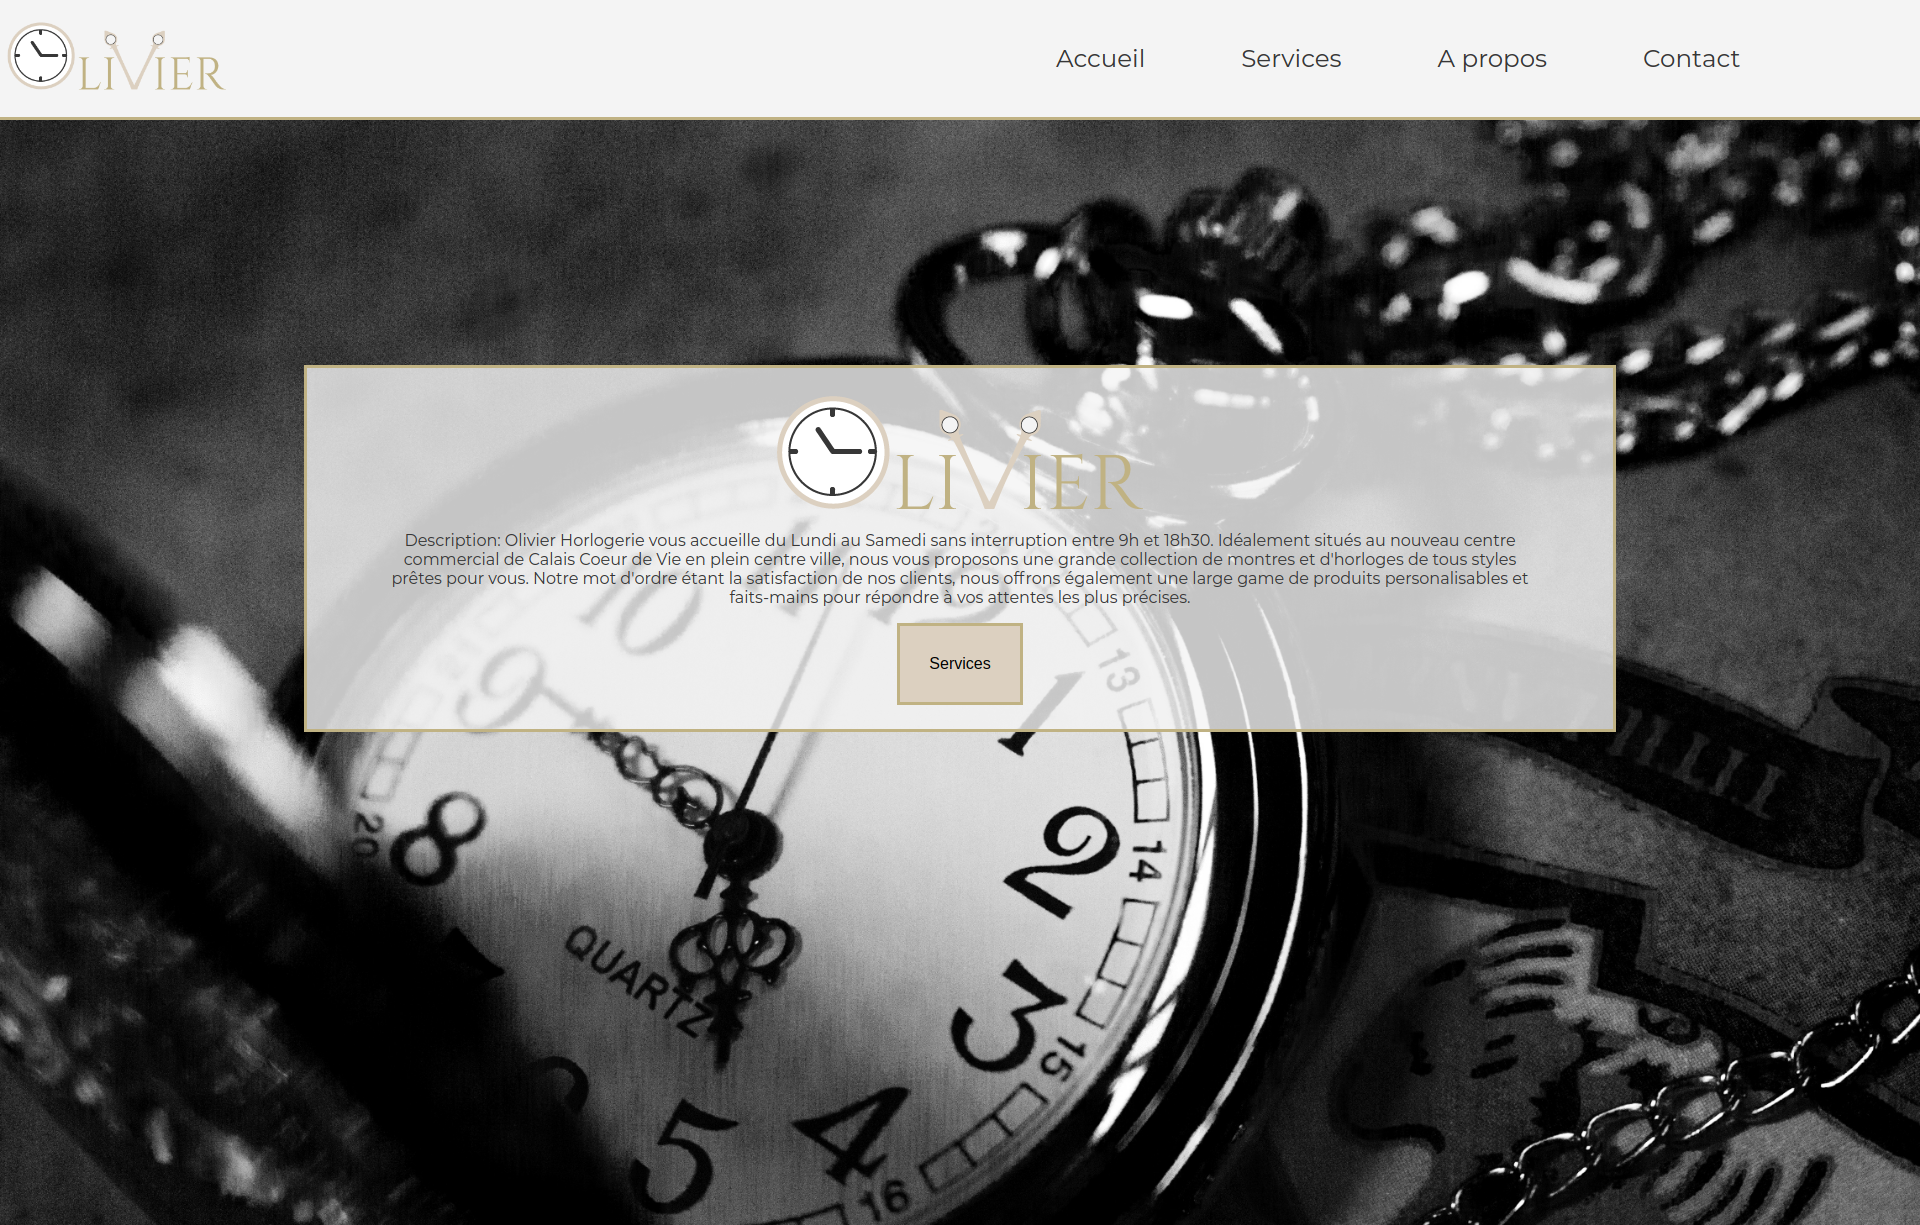
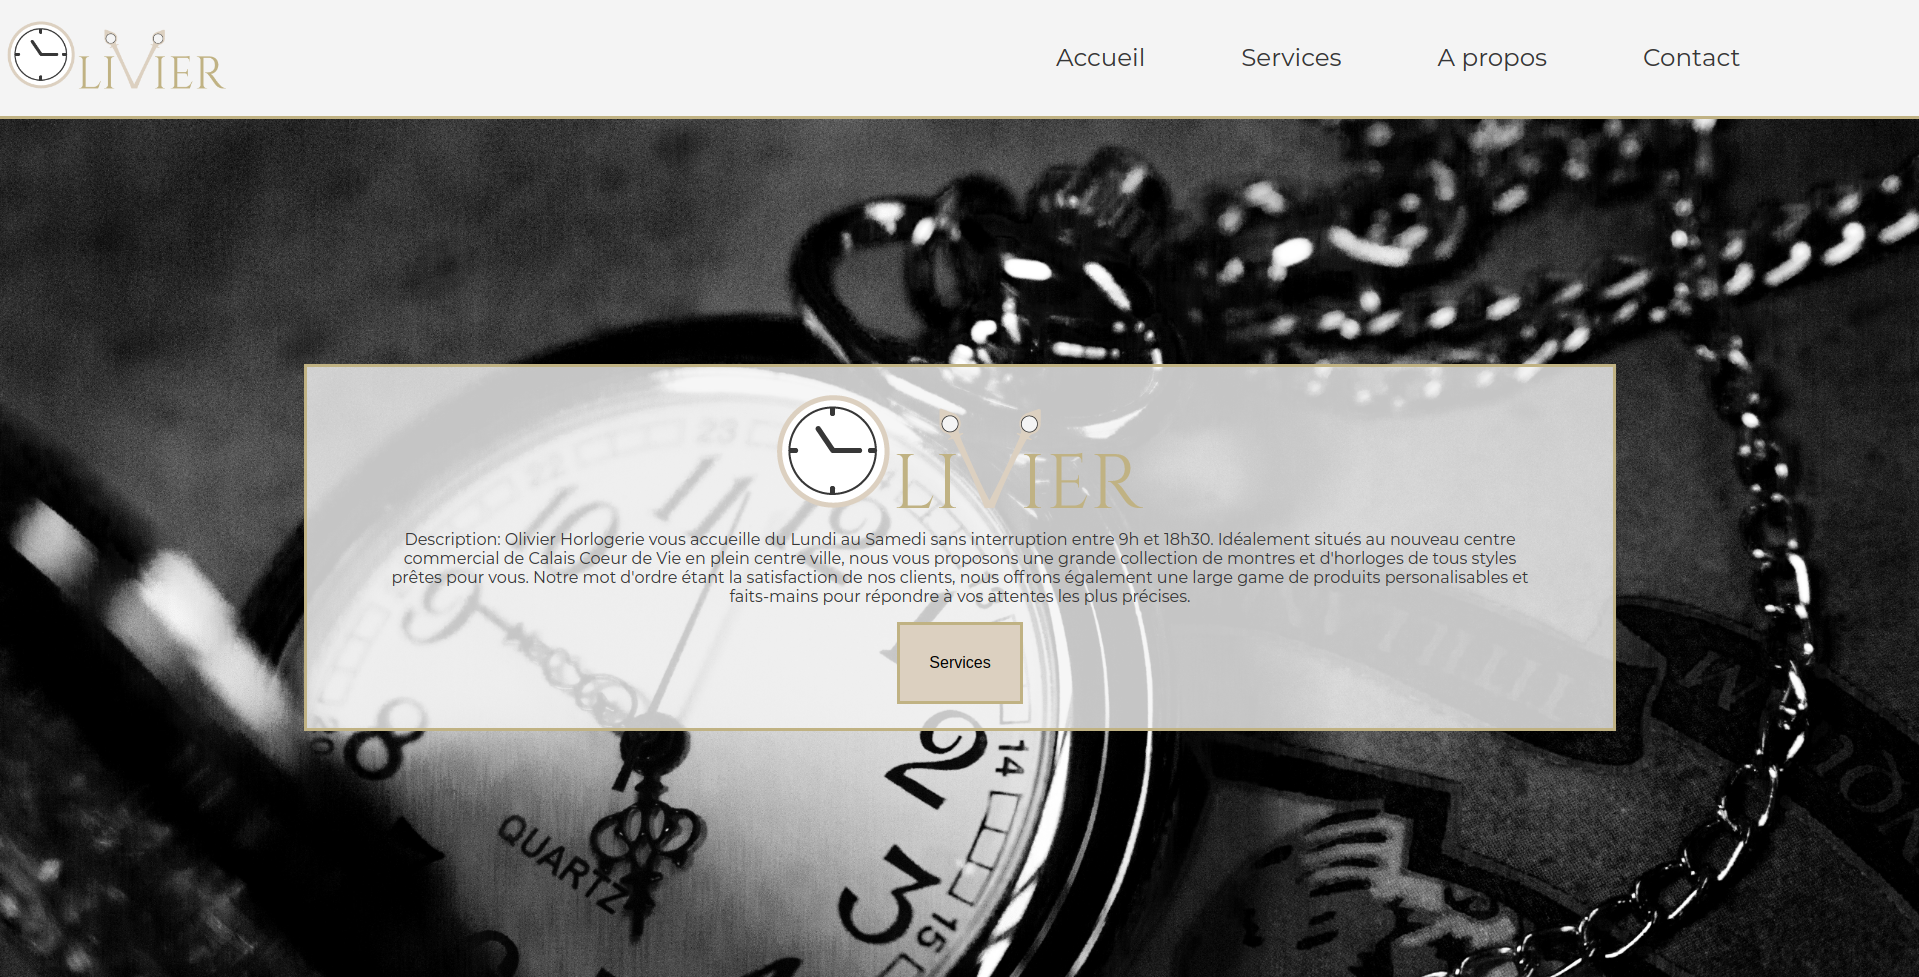
push final -1

diff --git a/CSS/style.css b/CSS/style.css
@@ -1,13 +1,3 @@
-@media screen and (max-width: 980px) {
-
-    .logos {
-        display: flex;
-        flex-direction: column;
-    }
-
-}
-
-
 /* Règles générales */
 
 html {
@@ -86,6 +76,7 @@ strong {
 .cont {
     padding: 0 3% 4em 3%;
     color: white;
+    width: 100vw;
 }
 
 /* Flèche de navigation */
@@ -118,6 +109,8 @@ strong {
 
 /* Nav à droite pour l'écran large */
 
+
+
 #nav_top {
     margin-left: 54vw;
     font-size: 1.2em;
@@ -128,6 +121,7 @@ ul {
     width: 36vw;
     display: flex;
     list-style-type: none;
+    padding-left: 0;
 }
 
 li {
@@ -147,7 +141,7 @@ li {
 
 
 #photo {
-    width: 15vw;
+    width: 12em;
     border-radius: 25%;
     box-shadow: 10px 7px 12px black;
 }
@@ -164,12 +158,12 @@ li {
 }
 
 #about img {
-    height: 10em;
+    width: 10vw;
 }
 
 .logos {
     display: flex;
-    justify-content: space-between;
+    justify-content: space-around;
 }
 
 /* Troisième section */
@@ -189,11 +183,9 @@ li {
 }
 
 .exp {
-    height: 18.75em;
-    width: 31.45em;
+    width: 26vw;
     box-shadow: 5px 5px 8px black;
     transition-duration: .8s;
-    
 }
 
 .exp:hover {
@@ -210,12 +202,14 @@ li {
     z-index: 3;
 }
 
-form {
-    width: 30vw;
+textarea {
     margin: 0 auto;
+    width: 40vw;
 }
 
 .formu {
+    margin: 0 auto;
+    width: 40vw;
     display: flex;
     justify-content: space-between;
 }
@@ -247,6 +241,7 @@ footer {
     padding-bottom: 2em;
     z-index: 3;
 }
+
 footer p {
     width: 50vw;
     margin: 0 auto;
@@ -259,6 +254,7 @@ footer img {
     padding-top: 1em;
     padding-left: .5em;
 }
+
 #nav_bottom {
     width: 50vw;
     margin: 0 auto;
@@ -267,4 +263,56 @@ footer img {
 #nav_bottom a {
     display: block;
     width: 4.5vw;
+}
+
+@media screen and (max-width: 1200px) {
+    #nav_top {
+        width: 50vw;
+        margin: 0 25vw;
+    }
+
+
+    .yellow ul {
+        flex-direction: column;
+        align-content: center;
+        padding-left: 0;
+    }
+
+    .yellow img {
+        width: 80vw;
+    }
+
+    #about img {
+        width: 14vw;
+    }
+
+    #nav_bottom {
+        width: 150vw;
+    }
+
+    #nav_bottom li {
+        padding: 0 5vw;
+        white-space: nowrap;
+    }
+
+    .exp:hover {
+        transform: unset;
+        box-shadow: 5px 5px 8px black;
+    }
+
+    textarea {
+        width: 60vw;
+    }
+
+    .formu {
+        margin: 0 auto;
+        width: 60vw;
+        display: flex;
+        justify-content: space-between;
+    }
+
+    #submit {
+        width: 10vw;
+    }
+
 }

diff --git a/html/index.html b/html/index.html
@@ -3,7 +3,6 @@
 
 <head>
     <meta charset="UTF-8">
-    <meta name="viewport" content="width=device-width, initial-scale=1.0">
     <meta http-equiv="X-UA-Compatible" content="ie=edge">
     <link rel="stylesheet" href="../CSS/style.css">
     <link href="https://fonts.googleapis.com/css?family=Acme|Lato&display=swap" rel="stylesheet">
@@ -110,7 +109,7 @@
 
     </section>
 
-    <footer class="red">
+    <footer class="cont">
 
             <nav id="nav_bottom">
                     <ul>

diff --git a/js/app.js b/js/app.js
@@ -1,7 +1,6 @@
 document.addEventListener("mousemove", parallax);
 
-function parallax(e)
-{
+function parallax(e) {
     this.querySelectorAll(".layer").forEach(layer => {
         var speed = layer.getAttribute("data-speed");
         var x = ((window.innerWidth - e.pageX * speed) / 100) ;
